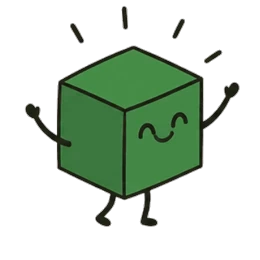
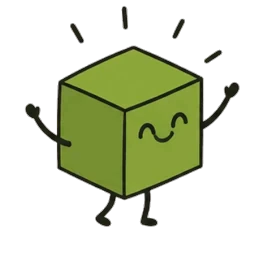
Add files via upload

Changed region(s): [[0.2154, 0.1846, 0.7692, 0.7692]]

diff --git a/js/pages/home.js b/js/pages/home.js
@@ -115,7 +115,7 @@ document.getElementById('eqArt').innerHTML=
 function packTile(c){const sq=(x,y,f)=>`<rect x="${x}" y="${y}" width="15" height="15" rx="3" fill="${f}" stroke="${INK}" stroke-width="1.6"/>`;
   return `<svg class="pack-explainer__pack" viewBox="0 0 44 44" aria-hidden="true"><rect x="1.5" y="1.5" width="41" height="41" rx="8" fill="#fff" stroke="${INK}" stroke-opacity=".45" stroke-width="1.4"/>
     ${sq(5.5,5.5,shade(c,22))}${sq(23.5,5.5,c)}${sq(5.5,23.5,c)}${sq(23.5,23.5,shade(c,-18))}</svg>`;}
-function boxGlyph(){const kraft='#E4CFA6', inside=shade('#E4CFA6',-22), cs=['#DB7814','#418344','#C0662B','#DB7814'];
+function boxGlyph(){const kraft='#E4CFA6', inside=shade('#E4CFA6',-22), cs=['#DB7814','#819C35','#C0662B','#DB7814'];
   const pk=(x,c)=>`<rect x="${x}" y="12" width="23" height="40" rx="4" fill="#fff" stroke="${INK}" stroke-width="1.6"/><rect x="${x+4}" y="17" width="6.5" height="6.5" rx="1.5" fill="${c}"/><rect x="${x+12.5}" y="17" width="6.5" height="6.5" rx="1.5" fill="${c}"/><rect x="${x+4}" y="25.5" width="6.5" height="6.5" rx="1.5" fill="${c}"/><rect x="${x+12.5}" y="25.5" width="6.5" height="6.5" rx="1.5" fill="${c}"/>`;
   return `<svg class="pack-explainer__box" viewBox="0 0 140 108" aria-hidden="true">
     <path d="M14 30 H126 V50 H14 Z" fill="${inside}" stroke="${INK}" stroke-width="1.8" stroke-linejoin="round"/>
@@ -126,7 +126,7 @@ function boxGlyph(){const kraft='#E4CFA6', inside=shade('#E4CFA6',-22), cs=['#DB
     <rect x="42" y="62" width="56" height="24" rx="5" fill="#FBF7F0" stroke="${INK}" stroke-opacity=".5" stroke-width="1.2"/>
     <text x="70" y="80" text-anchor="middle" font-family="Funflare, sans-serif" font-size="15" letter-spacing=".5" fill="${INK}">FITO</text></svg>`;}
 document.getElementById('boxEqArt').innerHTML=
-  `<div class="pack-explainer__cubes pack-explainer__cubes--packs">${['#DB7814','#418344','#C0662B','#DB7814'].map(packTile).join('')}</div>
+  `<div class="pack-explainer__cubes pack-explainer__cubes--packs">${['#DB7814','#819C35','#C0662B','#DB7814'].map(packTile).join('')}</div>
    <span class="pack-explainer__sign">=</span>
    <div class="pack-explainer__result">${boxGlyph()}</div>`;
 

diff --git a/js/common/catalog.js b/js/common/catalog.js
@@ -20,7 +20,7 @@ const FLAVOURS=[
    desc:'Velvety and naturally sweet, warmed through with cinnamon and nutmeg.',
    ing:'Butternut squash, sweet potato, red onion, honey, cinnamon, nutmeg, olive oil, salt, black pepper.',
    diet:['Vegetarian','No gluten'],note:'Contains honey',ar:''},
-  {id:'green',name:'Green Goddess',c:'#418344',sub:'Pea, courgette & broccoli',tag:'Fan favourite',avail:true,
+  {id:'green',name:'Green Goddess',c:'#819C35',sub:'Pea, courgette & broccoli',tag:'Fan favourite',avail:true,
    desc:'Bright and green, finished with a lift of lemon that keeps it fresh.',
    ing:'Peas, courgette, broccoli, leek, white onion, shallots, olive oil, salt, black pepper, lemon juice.',
    diet:['Vegan','No gluten'],note:'',ar:''},

diff --git a/js/common/art.js b/js/common/art.js
@@ -4,7 +4,7 @@
 // Cube character per flavour colour, and the Funflare flavour-name artwork per flavour id.
 const CUBEIMG={
   '#DB7814':'assets/images/cubes/caramel.webp',
-  '#418344':'assets/images/cubes/green-goddess.webp',
+  '#819C35':'assets/images/cubes/green-goddess.webp',
   '#C0662B':'assets/images/cubes/baddass.webp'
 };
 const NAMEIMG={
